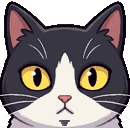
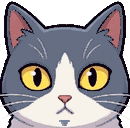
星之泉: 牛奶 as the gray-blue boss, pixel castle with walls, pixel clouds and road, frameless chant text
Claude-Session: https://claude.ai/code/session_015Mqcw1CUwCrp5H32bc8ZgS

diff --git a/games/starspring/index.html b/games/starspring/index.html
@@ -42,8 +42,8 @@ canvas{position:absolute;inset:0;width:100%;height:100%;display:block;touch-acti
 #hint,#chant{position:absolute;left:50%;transform:translateX(-50%) rotate(-1deg);background:var(--grain),var(--paper);padding:12px 18px 10px;border-radius:4px;font-weight:900;font-size:18px;text-align:center;width:max-content;max-width:88%;box-shadow:0 4px 0 #cdbfa4,0 10px 18px rgba(40,25,10,.3);opacity:0;transition:opacity .2s;pointer-events:none;line-height:1.4}
 #hint:before,#chant:before{content:"";position:absolute;left:50%;top:-9px;width:64px;height:16px;transform:translateX(-50%) rotate(-3deg);background:repeating-linear-gradient(45deg,rgba(255,255,255,.45) 0 5px,rgba(0,0,0,0) 5px 10px),var(--mustard);opacity:.92}
 #hint{top:calc(env(safe-area-inset-top) + 64px)}
-#chant{top:30%;font-size:26px;letter-spacing:2px;transform:translateX(-50%) rotate(1deg);color:#fff;background:var(--grain),var(--red);box-shadow:0 4px 0 #9e3029,0 10px 18px rgba(40,25,10,.3)}
-#chant:before{background:repeating-linear-gradient(90deg,rgba(255,255,255,.5) 0 4px,rgba(0,0,0,0) 4px 9px),var(--teal)}
+#chant{top:57%;font-size:clamp(22px,7.6vw,36px);white-space:nowrap;max-width:none;letter-spacing:2px;transform:translateX(-50%) rotate(-2deg);color:#fff;background:none;box-shadow:none;padding:0;-webkit-text-stroke:7px #d64f45;paint-order:stroke fill;text-shadow:0 4px 0 #9e3029,0 8px 14px rgba(40,25,10,.35)}
+#chant:before{display:none}
 #hint.on,#chant.on{opacity:1}
 .panel{position:absolute;inset:0;display:none;align-items:center;justify-content:center;padding:22px;background:rgba(40,25,10,.4)}
 .panel.on{display:flex}
@@ -658,6 +658,7 @@ function resize() {
     card(() => { ctx.beginPath(); ctx.moveTo(W * .4, H * .56 - o); ctx.lineTo(W * .6, H * .56 - o); ctx.lineTo(W * .82, h + 10); ctx.lineTo(W * .18, h + 10); ctx.closePath(); }, PAT.kraftL, '#8a6436', 4);
     tape(W * .5, H * .7 - o, 60 * U, 14 * U, -.08, '#d64f45', 'stripes');
   });
+  IMG.pbank = pixelBank(W, H * .55);
   IMG.sun = make(110 * U, 110 * U, paintSun);
   IMG.leaf = make(34 * U, 26 * U, paintLeaf);
   IMG.grain = makeGrain();
@@ -690,7 +691,7 @@ loadSpr('cat', '../../assets/sprites/guide.png');
 loadSpr('black', '../../assets/sprites/blackcat.png');
 loadSpr('slime', '../../assets/sprites/slime.png');
 loadSpr('bunny', '../../assets/sprites/bunny.png');
-['hero_stand', 'hero_climb', 'hero_run', 'hero_star', 'hero_dazed', 'boss', 'boss_hide', 'boss_stare', 'pelican', 'crow', 'mushroom', 'crystal', 'starsand', 'yarn'].forEach(k => loadSpr(k, 'img/' + k + '.png'));
+['hero_stand', 'hero_climb', 'hero_run', 'hero_star', 'hero_dazed', 'boss', 'boss_hide', 'boss_stare', 'pelican', 'crow', 'mushroom', 'crystal', 'starsand', 'yarn', 'castle'].forEach(k => loadSpr(k, 'img/' + k + '.png'));
 // 以中心點為基準的貼紙（鳥、道具）
 function drawSprC(key, x, y, hgt, flip = false, rot = 0, sq = 1) {
   const c = SPR[key]; if (!c) return false;
@@ -1328,7 +1329,8 @@ function drawWorld() {
   for (const bh of [36, 57]) { const by = sy(bh); if (by > -IMG.band.h && by < H + IMG.band.h) ctx.drawImage(IMG.band, 0, by - IMG.band.h / 2, W, IMG.band.h); }
   const ty = sy(TOP);
   if (ty > -40 && ty < H + IMG.castle.h) {
-    const cw = W * .8, ch = IMG.castle.h * .8; ctx.drawImage(IMG.castle, W * .1, ty - ch + 4 * U, cw, ch);
+    if (SPR.castle) { const cw = W * .96; drawSpr('castle', W / 2, ty + 4 * U, cw * SPR.castle.height / SPR.castle.width); }
+    else { const cw = W * .8, ch = IMG.castle.h * .8; ctx.drawImage(IMG.castle, W * .1, ty - ch + 4 * U, cw, ch); }
     ctx.drawImage(IMG.band, 0, ty - IMG.band.h * .35, W, IMG.band.h);
   }
   // 土堆
@@ -1720,7 +1722,7 @@ function drawGiantScene() {
     else if (g.state === 'front') look = 1;
     else if (g.state === 'turnback') look = 1 - ease(clamp(g.t / .35, 0, 1));
     if (scene === 'fail' || scene === 'win') look = 1;
-    const fh = Math.min(W, H * .5), fy = H * .47 + bob - (scene === 'fail' ? Math.sin(T * 40) * 2 * U : 0);
+    const fh = Math.min(W, H * .5), fy = H * .47 - look * (1 + Math.sin(T * 2.2)) * 5 * U - (scene === 'fail' ? Math.sin(T * 40) * 2 * U : 0);
     const face = (k, a) => {
       if (a <= 0) return;
       const c = fadeBottom(k), fw = c.width / c.height * fh;
@@ -1735,9 +1737,10 @@ function drawGiantScene() {
       const cw2 = W * .55, ch2 = cw2 * 130 / 240, cx2 = ((i * .23 + T * .006 * (i % 2 ? 1 : -1)) % 1.2 + 1.2) % 1.2 * W - cw2 * .3;
       ctx.globalAlpha = .45; ctx.drawImage(IMG.cloud, cx2 - cw2 / 2, H * (.33 + (i % 3) * .035) - ch2 / 2, cw2, ch2); ctx.globalAlpha = 1;
     }
-    const cw = W * .62, ch = IMG.castle.h * .62; ctx.drawImage(IMG.castle, (W - cw) / 2, H * .55 - ch, cw, ch);
+    if (SPR.castle) { const cw = W * .98; drawSpr('castle', W / 2, H * .555, cw * SPR.castle.height / SPR.castle.width); }
+    else { const cw = W * .62, ch = IMG.castle.h * .62; ctx.drawImage(IMG.castle, (W - cw) / 2, H * .55 - ch, cw, ch); }
+    ctx.drawImage(IMG.pbank, 0, H * .47, W, IMG.pbank.h);
     if (scene !== 'win') drawEgg(W / 2, H * .515, 1, T);
-    ctx.drawImage(IMG.bank, 0, H * .47, W, IMG.bank.h);
     if (scene === 'win') {
       drawJack(jx, jy, js, 'hold', 0);
       for (let i = 0; i < 5; i++) { const a = T * 2 + i * 1.256; star(jx + Math.cos(a) * 46 * U, jy - 30 * U + Math.sin(a) * 30 * U, 6 * U, '#ffd25e'); }
@@ -1812,6 +1815,40 @@ function giantOverlay(g) {
     rr(W * .2, by - 20, W * .6, 8, 4, 'rgba(255,248,234,.8)', false);
     rr(W * .2, by - 20, Math.max(8, W * .6 * g.p), 8, 4, '#f2b93b', false);
   }
+}
+// 點陣風的雲海和石板路（先在小畫布一格一格畫，再放大，邊緣才會是方塊）
+function pixelBank(w, h) {
+  const q = 3, lw = Math.ceil(w / q), lh = Math.ceil(h / q);
+  const c = document.createElement('canvas'); c.width = lw; c.height = lh;
+  const x = c.getContext('2d'), d = x.createImageData(lw, lh), D = d.data;
+  const hex = s => [parseInt(s.slice(1, 3), 16), parseInt(s.slice(3, 5), 16), parseInt(s.slice(5, 7), 16)];
+  const OL = hex('#8f8597'), CL = hex('#fbf8f1'), CS = hex('#e3dde8'), RD = hex('#ead7b0'), RL = hex('#cfb487'), RE = hex('#7d6450'), RH = hex('#f5e8c9');
+  const put = (i, j, col) => { const k = (j * lw + i) * 4; D[k] = col[0]; D[k + 1] = col[1]; D[k + 2] = col[2]; D[k + 3] = 255; };
+  // 雲的上緣：一串圓弧
+  const R = 9, top = i => { const ph = (i + 4) % (R * 2) - R; return Math.round(lh * .16 - Math.sqrt(Math.max(0, R * R - ph * ph)) * .8); };
+  const top2 = i => { const ph = (i + 13) % (R * 2 + 4) - R - 2; return Math.round(lh * .1 - Math.sqrt(Math.max(0, R * R - ph * ph)) * .7); };
+  for (let i = 0; i < lw; i++) {
+    const t2 = top2(i), t = top(i);
+    for (let j = Math.max(0, t2); j < lh; j++) {
+      if (j < t) put(i, j, j === t2 ? OL : CS);
+      else { const ph = (i + 9) % 26 - 13, puff = Math.round(lh * .3 - Math.sqrt(Math.max(0, 169 - ph * ph)) * .5); put(i, j, j === t ? OL : (j === puff ? CS : CL)); }
+    }
+  }
+  // 石板路：上窄下寬
+  const y0 = Math.round(lh * .16), L = (j, a, b) => a + (b - a) * (j - y0) / (lh - y0);
+  for (let j = y0; j < lh; j++) {
+    const l = Math.round(L(j, lw * .4, lw * .18)), r = Math.round(L(j, lw * .6, lw * .82)), row = Math.floor(Math.sqrt(j - y0 + 1) * 2.2);
+    const rowStart = Math.floor(Math.sqrt(j - y0 + 1) * 2.2) !== Math.floor(Math.sqrt(j - y0) * 2.2);
+    for (let i = l; i <= r; i++) {
+      if (i === l || i === r) put(i, j, RE);
+      else if (rowStart) put(i, j, RL);
+      else { const seam = Math.round((i - lw / 2) / ((r - l) / 4) + (row % 2) * .5); const sx = Math.round(lw / 2 + (seam - (row % 2) * .5) * (r - l) / 4); put(i, j, i === sx ? RL : (i === l + 1 || j % 7 === 0 && i % 5 === 0 ? RH : RD)); }
+    }
+  }
+  x.putImageData(d, 0, 0);
+  const o = document.createElement('canvas'); o.width = Math.ceil(w * DPR); o.height = Math.ceil(h * DPR);
+  const ox = o.getContext('2d'); ox.imageSmoothingEnabled = false; ox.drawImage(c, 0, 0, lw * q * DPR, lh * q * DPR);
+  o.w = w; o.h = h; return o;
 }
 // 手帳方格紙：天空是畫在筆記本上的，邊邊貼紙膠帶
 function paper(off, tt) {
@@ -1891,7 +1928,8 @@ function resultCard() {
     ctx.fillStyle = vg(0, h, '#2f6f7e', '#8fc6d8'); ctx.fillRect(0, 0, w, h);
     for (let i = 0; i < 16; i++) { sh(); star((i * 137) % 680 + 20, (i * 71) % 260 + 20, 8 + (i % 3) * 4, '#f6d36b'); }
     ctx.drawImage(IMG.sun, 560, 30, 140, 140);
-    { const cw = 440, chh = IMG.castle.h * cw / IMG.castle.w; ctx.drawImage(IMG.castle, (w - cw) / 2, 340 - chh, cw, chh); }
+    if (SPR.castle) drawSpr('castle', w / 2, 340, 560 * SPR.castle.height / SPR.castle.width);
+    else { const cw = 440, chh = IMG.castle.h * cw / IMG.castle.w; ctx.drawImage(IMG.castle, (w - cw) / 2, 340 - chh, cw, chh); }
     ctx.drawImage(IMG.band, 0, 250, w, 190);
     card(() => rrPath(50, 380, 620, 530, 14), PAT.kraft, '#7f5a30', 6);
     card(() => rrPath(80, 412, 560, 466, 6), PAT.white, '#bfb29b', 3);

diff --git a/games/starspring/NOTES.md b/games/starspring/NOTES.md
@@ -8,13 +8,18 @@
 - 拿掃把的媽媽 → 橘貓郵差，要抓她回去睡午覺
 - 小鳥 → 烏鴉、巫婆 → 騎掃把的黑貓、綿羊 → 兔子、毛毛蟲／蝸牛 → 史萊姆、蜂窩 → 螢光蘑菇（碰到會看呆 1 秒，第三部的伏筆）
 - 巨人的豌豆 → 魔王夢裡踢下來的毛線球；金幣 → 星砂；金蛋 → 星星結晶
-- 巨人 → 魔王：黑白賓士貓（像穿燕尾服、很懶）。唸口訣時用肉球摀眼睛，轉頭時睜大黃眼睛盯著妳
+- 巨人 → 魔王：灰藍白賓士貓，原型是使用者家的貓「牛奶」（最中二、最屁，像哈士奇）。下巴有一撮深色毛。唸口訣時用肉球摀眼睛、不動；轉頭時睜大黃眼睛盯著妳、輕輕上下浮。身體藏在城堡後面的霧裡
+- 城堡：點陣風（`img/castle.png`，Python 一格一格畫的，程式在 `isekai-studio` 的 `work/sprites/castle2.py`），中間主堡＋兩座塔＋左右城牆。下面的雲海和石板路也是點陣風（`pixelBank()`）
+- 「一二三木頭人」改成沒有框的大字，放在城堡下面，不遮臉
 - 熱氣球 → 送貨的鵜鶘，跳過去抓住木箱就會被載上去
 - 天空背景改成手帳方格紙（左邊紅色邊線、紙膠帶）
 - 角色是點陣圖加白邊，像貼紙貼在瓦楞紙上；地面和道具維持原本的紙板手作風
 - 新角色圖在 `img/`：2026-10-28 用 Gemini 畫一張 4×4 角色表（約 NT$2.2），程式裁切、去背、縮到約 96px 高。原始角色表在 `isekai-studio` 的 `work/sprites/`
 
 ## 還沒做
+
+- 地面（紅色穀倉、柵欄、草地）還是瓦楞紙風，要改成點陣風；穀倉換成橘貓的樹屋
+- 魔王關卡往前跑時改用背影（下次畫角色表時一起畫）
 
 - 地面的紅色穀倉換成橘貓的樹屋；「橘貓的家」牌子上的牛頭圖示
 - 兔子、史萊姆、黑貓還是測驗的舊點陣圖，畫風比新角色簡單一點
